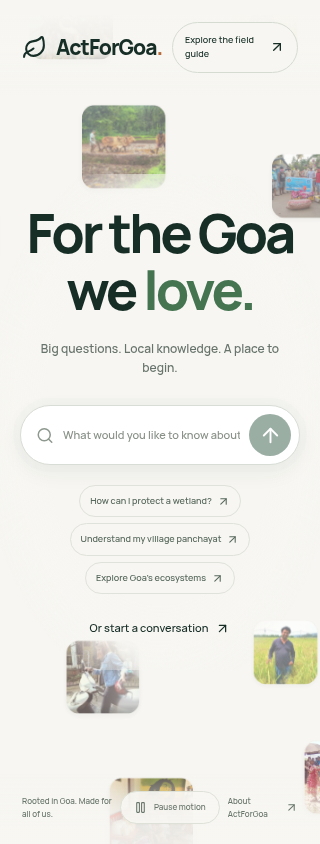
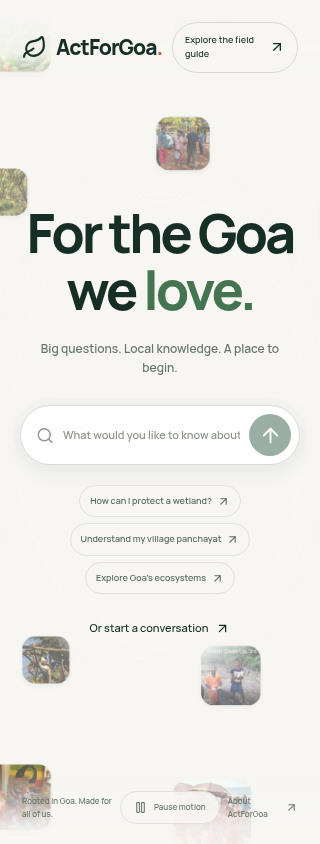
Record full-turn entrance and photo depth live verification

diff --git a/reports/orbit-landing-2026-10-28/README.md b/reports/orbit-landing-2026-10-28/README.md
@@ -24,3 +24,9 @@ A future integrated deployment must explicitly retire these two project routing 
 User follow-up source `ce0b0ed` removes the eyebrow entirely, records the no-eyebrow preference in `AGENTS.md`, and adds a three-second spiral entrance. Scene scale settles from 1.16 to 1; ring and matching counter animations start at 5× playback and ease quadratically to 1× after 3000ms, keeping images upright. Reduced-motion disables the entrance and orbit animation.
 
 Build passed. Local and public Chromium checks confirm initial playback >1, exact 1× after three seconds, all matching counter animations settled and zero eyebrow elements. The internal asset alias now serves deployment `dpl_8LKejjCqfL5fdVNoDx77d6YPeEtn` at the same public `/explore` route. Existing production target and route rules are unchanged.
+
+### Full revolutions and photo depth
+
+Source `27285db` (including `a94cd0b`) is live at `/explore` through isolated deployment `dpl_8RDqSrA9CZafsYWEpDX9qRGUAqqo`. The entrance now integrates animation time explicitly: inner/middle/outer rings complete 3/2.5/2 full revolutions in three seconds and then retain their original 90/150/240-second periods. Matching counter rotations keep tiles upright. Pausing also pauses the entrance progression. Photo sizes are 62–78px inside, 86–102px in the middle and 116–132px outside. No eyebrows.
+
+Production build and public Chromium checks pass at 1440/390/320px, covering loaded photos, no horizontal overflow/page errors, pause/resume, exact draft transfer and reduced motion. Live measured entrance turns after settling: approximately 3.04, 2.52 and 2.01. Existing production target and project routing definitions are unchanged.

diff --git a/docs/CLOUD-IMPLEMENTATION-PLAN.md b/docs/CLOUD-IMPLEMENTATION-PLAN.md
@@ -145,3 +145,5 @@ Implemented + tested: 178 Node tests and production build pass; Chromium desktop
 User explicitly requested shipping `/explore` on the existing field-guide URL and aligning photos upright. Source `755177e` implements the alignment. The page is now live via two scoped Vercel project routing rules, with isolated static deployment `dpl_4VzSLExLmufsCCJ9HvNohACTbFXu`; existing production deployment/alias is unchanged. Public desktop + 390/320px checks pass, including loaded photos and exact draft transfer. Full publication/route IDs and retirement instructions are recorded in `reports/orbit-landing-2026-10-28/README.md`. Implemented, tested and route-published; PR #98 source is not yet merged. Future release owners must remove the scoped routing overrides when integrated `/explore` is deployed and verified.
 
 Orbit page follow-up `ce0b0ed` is live through isolated asset deployment `dpl_8LKejjCqfL5fdVNoDx77d6YPeEtn`: no eyebrow labels; upright photos spiral inward at initial 5× speed and settle to 1× in three seconds. Build and live Chromium entrance checks pass. No change to existing production target or project route definitions. `AGENTS.md` records the user's explicit no-eyebrow preference.
+
+Orbit follow-up `27285db` is live via isolated deployment `dpl_8RDqSrA9CZafsYWEpDX9qRGUAqqo`: entrance now completes 3/2.5/2 turns in three seconds (inner to outer), then settles to steady orbit. Photos increase in size outward (62–78 / 86–102 / 116–132px). Build + public desktop/phone checks pass; latest evidence is in the orbit report directory. Existing production target and route rules remain unchanged.
